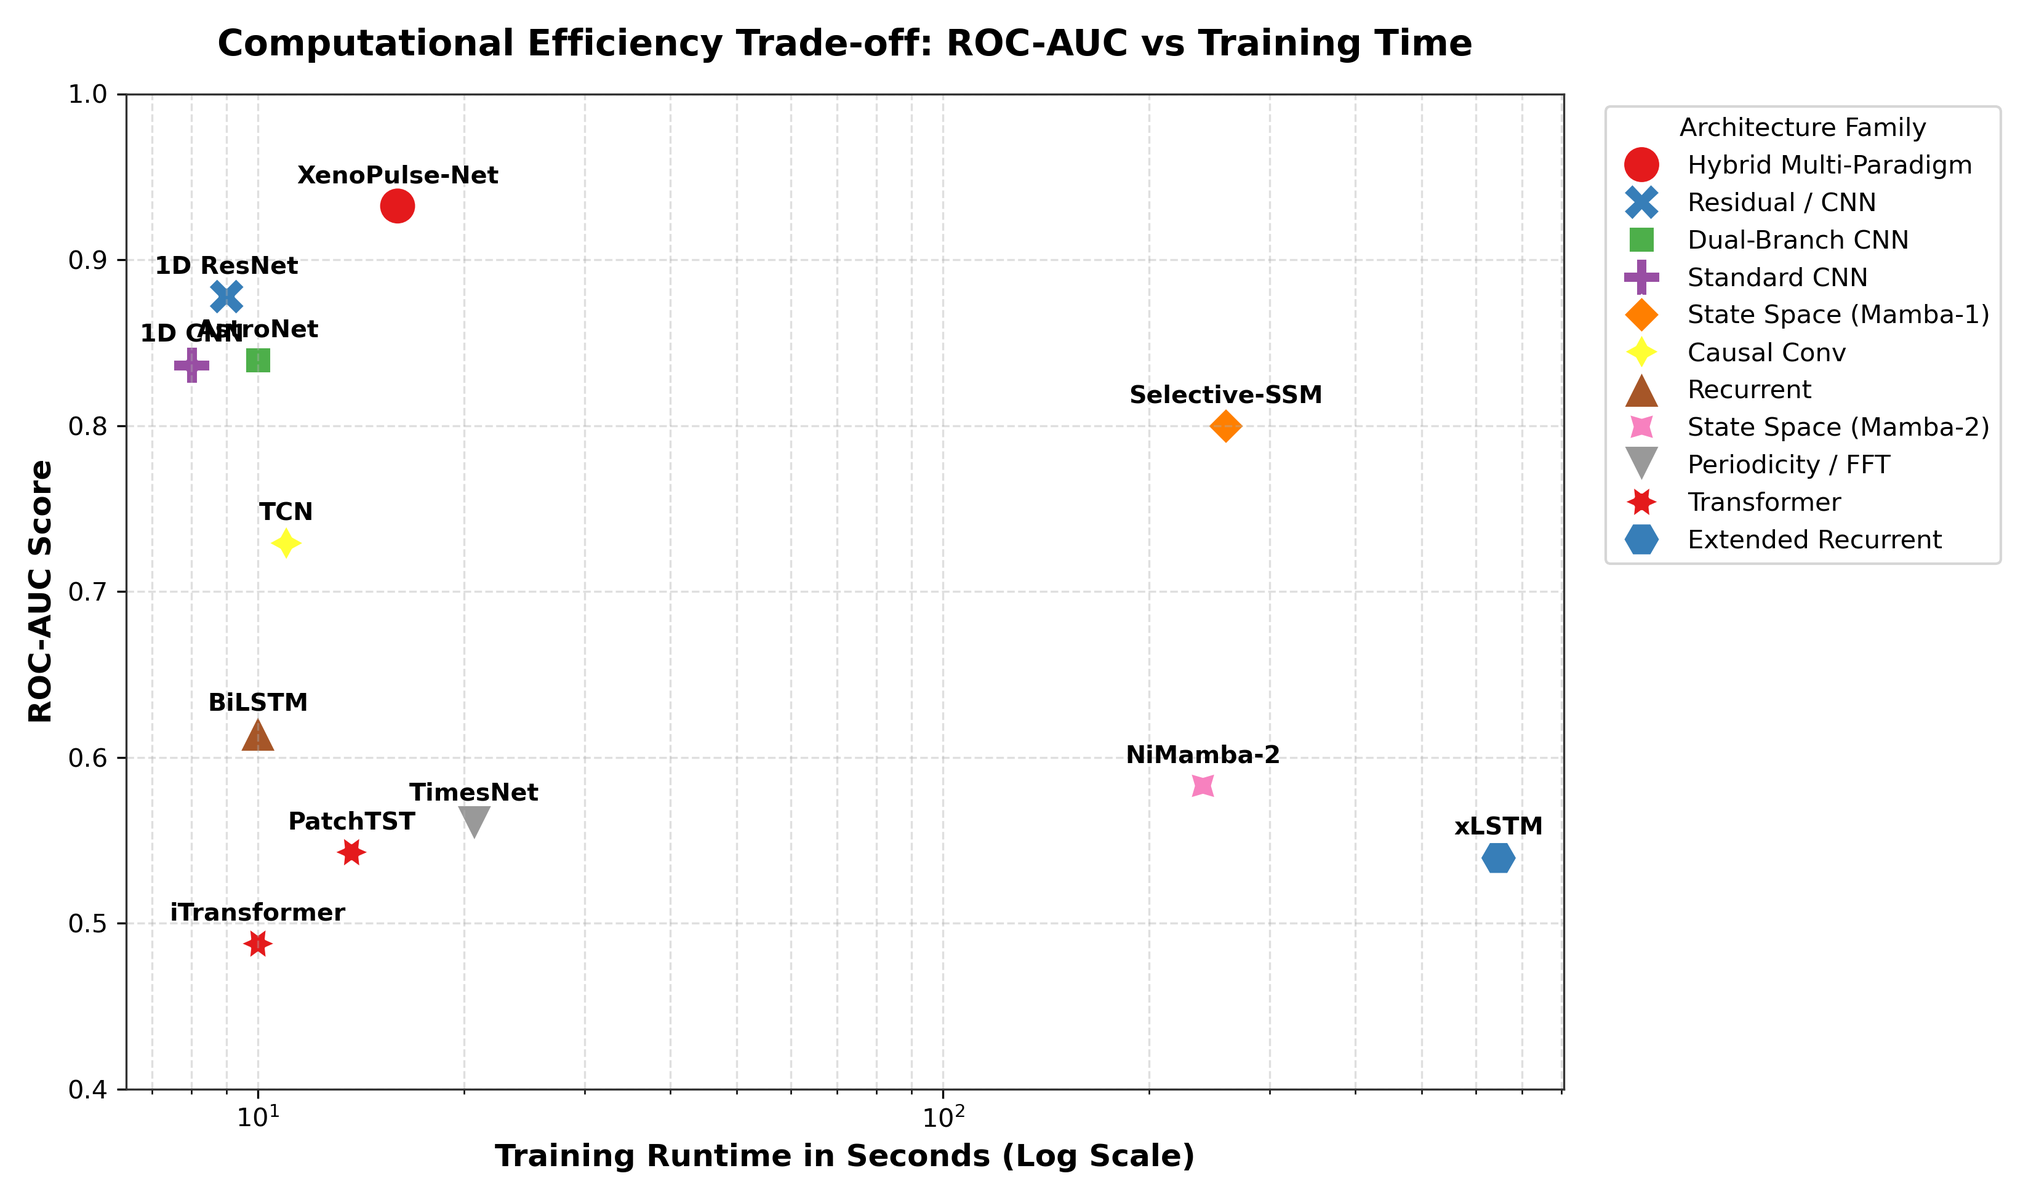
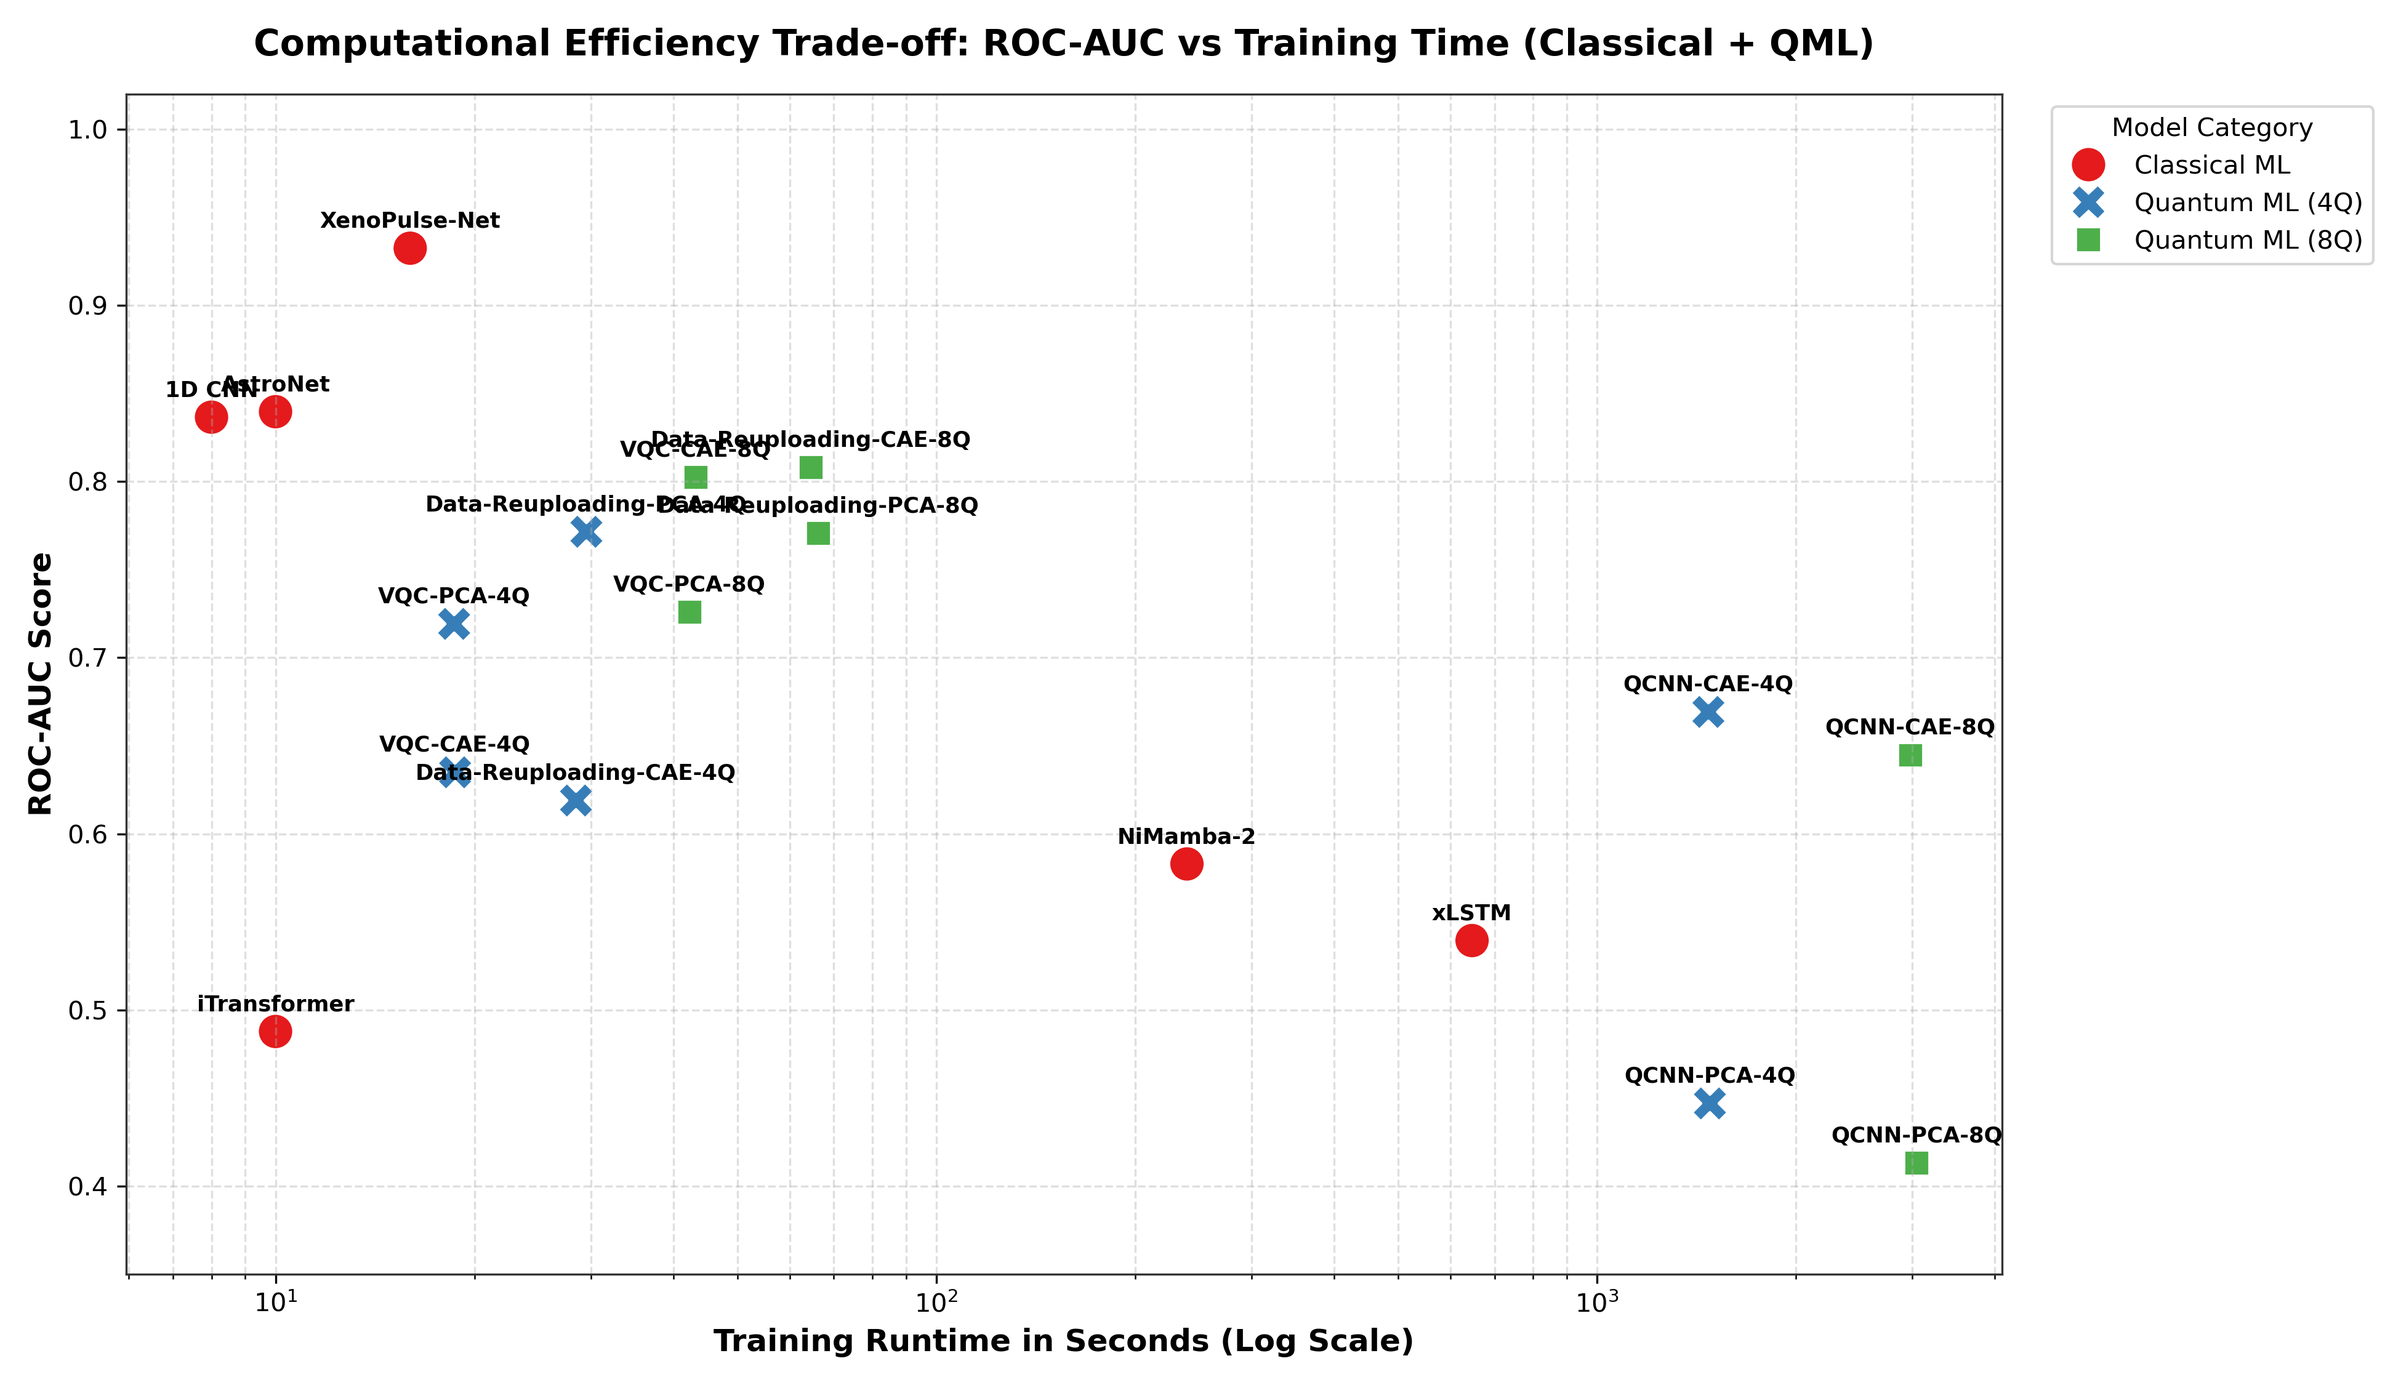
feat: update benchmark plots and master table for target classical and quantum models

diff --git a/src/visualization/plot_benchmarks.py b/src/visualization/plot_benchmarks.py
@@ -11,53 +11,140 @@ plt.rcParams['font.sans-serif'] = ['DejaVu Sans', 'Arial', 'Helvetica']
 plt.rcParams['axes.edgecolor'] = '#333333'
 plt.rcParams['axes.linewidth'] = 0.8
 
-CSV_PATH = "logs/classical_benchmark_results.csv"
+def find_column(df, candidates):
+    """Finds the first matching candidate column in df (case-insensitive & space-insensitive)."""
+    normalized_cols = {str(col).strip().lower(): col for col in df.columns}
+    for cand in candidates:
+        cand_norm = cand.strip().lower()
+        if cand_norm in normalized_cols:
+            return normalized_cols[cand_norm]
+    for cand in candidates:
+        for norm_col, orig_col in normalized_cols.items():
+            if cand.lower() in norm_col:
+                return orig_col
+    return None
 
-def load_and_clean_data(csv_path):
-    if not os.path.exists(csv_path):
-        raise FileNotFoundError(f"Results CSV not found at {csv_path}")
-    
-    df = pd.read_csv(csv_path)
-    
-    # Filter out corrupt entries where model_name was written as a float string
-    def is_valid_name(val):
-        try:
-            float(val)
-            return False
-        except ValueError:
-            return True
+def load_classical_data():
+    class_path = "logs/classical_benchmark_results.csv"
+    if not os.path.exists(class_path):
+        return pd.DataFrame()
 
-    df = df[df['model_name'].astype(str).apply(is_valid_name)].copy()
+    df = pd.read_csv(class_path, on_bad_lines='skip', engine='python')
+    df.columns = df.columns.str.strip()
 
-    numeric_cols = ['test_acc', 'precision', 'recall', 'f1_score', 'roc_auc', 'train_time_sec']
-    for col in numeric_cols:
-        df[col] = pd.to_numeric(df[col], errors='coerce')
+    model_col = find_column(df, ['model_name', 'model', 'architecture', 'name'])
+    acc_col = find_column(df, ['test_acc', 'accuracy', 'acc', 'test_accuracy'])
+    prec_col = find_column(df, ['precision', 'prec'])
+    rec_col = find_column(df, ['recall', 'rec'])
+    f1_col = find_column(df, ['f1_score', 'f1', 'f1-score'])
+    auc_col = find_column(df, ['roc_auc', 'auc', 'roc_auc_score'])
+    time_col = find_column(df, ['train_time_sec', 'training_time_sec', 'training_time', 'time_sec', 'time'])
 
-    df = df.groupby('model_name').last().reset_index()
-    df = df.sort_values('roc_auc', ascending=False).reset_index(drop=True)
-    
-    family_map = {
-        'XenoPulse-Net': 'Hybrid Multi-Paradigm',
-        '1D ResNet': 'Residual / CNN',
-        'AstroNet': 'Dual-Branch CNN',
-        '1D CNN': 'Standard CNN',
-        'Selective-SSM': 'State Space (Mamba-1)',
-        'TCN': 'Causal Conv',
-        'BiLSTM': 'Recurrent',
-        'NiMamba-2': 'State Space (Mamba-2)',
-        'TimesNet': 'Periodicity / FFT',
-        'PatchTST': 'Transformer',
-        'xLSTM': 'Extended Recurrent',
-        'iTransformer': 'Transformer'
+    c_df = pd.DataFrame()
+    c_df['model_name'] = df[model_col].astype(str).str.strip()
+    c_df['test_acc'] = pd.to_numeric(df[acc_col], errors='coerce') if acc_col else np.nan
+    c_df['precision'] = pd.to_numeric(df[prec_col], errors='coerce') if prec_col else np.nan
+    c_df['recall'] = pd.to_numeric(df[rec_col], errors='coerce') if rec_col else np.nan
+    c_df['f1_score'] = pd.to_numeric(df[f1_col], errors='coerce') if f1_col else np.nan
+    c_df['roc_auc'] = pd.to_numeric(df[auc_col], errors='coerce') if auc_col else np.nan
+    c_df['train_time_sec'] = pd.to_numeric(df[time_col], errors='coerce') if time_col else np.nan
+
+    # Target Classical Models filter
+    allowed_classical = {
+        'itransformer': 'iTransformer',
+        'astronet': 'AstroNet',
+        'xenopulse-net': 'XenoPulse-Net',
+        'xenopulse': 'XenoPulse-Net',
+        'xlstm': 'xLSTM',
+        'nimamba-2': 'NiMamba-2',
+        'nimamba2': 'NiMamba-2',
+        '1d cnn': '1D CNN',
+        '1d-cnn': '1D CNN',
+        '1d_cnn': '1D CNN'
     }
-    df['family'] = df['model_name'].map(family_map).fillna('Other')
-    return df
 
-def plot_master_metrics(df):
-    fig, ax = plt.subplots(figsize=(15, 7.5), dpi=300)
+    c_df['norm_key'] = c_df['model_name'].str.lower()
+    c_df = c_df[c_df['norm_key'].isin(allowed_classical.keys())].copy()
+    c_df['model_name'] = c_df['norm_key'].map(allowed_classical)
+    c_df['category'] = 'Classical ML'
+    c_df.drop(columns=['norm_key'], inplace=True)
+    c_df = c_df.groupby('model_name').last().reset_index()
+
+    return c_df
+
+def load_quantum_data():
+    q_files = [
+        "qnn_benchmark_results.csv",
+        "qcnn_benchmark_results.csv"
+    ]
+
+    q_dfs = []
+    for qf in q_files:
+        qp = os.path.join("logs", qf)
+        if os.path.exists(qp):
+            try:
+                df = pd.read_csv(qp, on_bad_lines='skip', engine='python')
+                df.columns = df.columns.str.strip()
+                q_dfs.append(df)
+            except Exception:
+                pass
+
+    if not q_dfs:
+        return pd.DataFrame()
+
+    raw_q = pd.concat(q_dfs, ignore_index=True)
+
+    arch_col = find_column(raw_q, ['architecture', 'model', 'model_name'])
+    qubit_col = find_column(raw_q, ['n_qubits', 'qubits', 'num_qubits'])
+    latent_col = find_column(raw_q, ['latent_type', 'latent', 'dim_red'])
+    acc_col = find_column(raw_q, ['accuracy', 'acc', 'test_acc'])
+    prec_col = find_column(raw_q, ['precision', 'prec'])
+    rec_col = find_column(raw_q, ['recall', 'rec'])
+    f1_col = find_column(raw_q, ['f1_score', 'f1', 'f1-score'])
+    auc_col = find_column(raw_q, ['roc_auc', 'auc'])
+    time_col = find_column(raw_q, ['training_time_sec', 'training_time', 'time_sec', 'time'])
+
+    q_df = pd.DataFrame()
+    q_df['arch_raw'] = raw_q[arch_col].astype(str).str.strip() if arch_col else ''
+    q_df['qubits'] = pd.to_numeric(raw_q[qubit_col], errors='coerce').fillna(0).astype(int) if qubit_col else 0
+    q_df['latent'] = raw_q[latent_col].astype(str).str.strip().str.upper() if latent_col else ''
+    q_df['test_acc'] = pd.to_numeric(raw_q[acc_col], errors='coerce') if acc_col else np.nan
+    q_df['precision'] = pd.to_numeric(raw_q[prec_col], errors='coerce') if prec_col else np.nan
+    q_df['recall'] = pd.to_numeric(raw_q[rec_col], errors='coerce') if rec_col else np.nan
+    q_df['f1_score'] = pd.to_numeric(raw_q[f1_col], errors='coerce') if f1_col else np.nan
+    q_df['roc_auc'] = pd.to_numeric(raw_q[auc_col], errors='coerce') if auc_col else np.nan
+    q_df['train_time_sec'] = pd.to_numeric(raw_q[time_col], errors='coerce') if time_col else np.nan
+
+    # Filter strictly for 4 and 8 Qubits, and PCA/CAE Latents
+    q_df = q_df[q_df['qubits'].isin([4, 8])].copy()
+    q_df = q_df[q_df['latent'].isin(['PCA', 'CAE'])].copy()
+
+    # Standardize Model Display Names
+    def construct_q_name(row):
+        arch = row['arch_raw'].lower()
+        q_str = f"{row['qubits']}Q"
+        latent_str = row['latent']
+
+        if 'data_reuploading' in arch or 'reuploading' in arch or 'data-reuploading' in arch:
+            return f"Data-Reuploading-{latent_str}-{q_str}"
+        elif 'vqc' in arch:
+            return f"VQC-{latent_str}-{q_str}"
+        elif 'qcnn' in arch:
+            return f"QCNN-{latent_str}-{q_str}"
+        else:
+            return f"QML-{latent_str}-{q_str}"
+
+    q_df['model_name'] = q_df.apply(construct_q_name, axis=1)
+    q_df['category'] = q_df['qubits'].apply(lambda q: f"Quantum ML ({q}Q)")
+    
+    q_df = q_df.groupby('model_name').last().reset_index()
+    return q_df[['model_name', 'test_acc', 'precision', 'recall', 'f1_score', 'roc_auc', 'train_time_sec', 'category']]
+
+def plot_benchmark_metrics(df):
+    fig, ax = plt.subplots(figsize=(18, 8), dpi=300)
 
     x = np.arange(len(df))
-    width = 0.26
+    width = 0.25
 
     acc_normalized = df['test_acc'] / 100.0 if df['test_acc'].max() > 1.0 else df['test_acc']
 
@@ -66,45 +153,48 @@ def plot_master_metrics(df):
     bars3 = ax.bar(x + width, acc_normalized, width, label='Accuracy', color='#7570b3', edgecolor='black', alpha=0.9)
 
     ax.set_ylabel('Score (0.0 – 1.0)', fontsize=12, fontweight='bold')
-    ax.set_title(f'Exoplanet Detection Benchmark: Performance Across {len(df)} Architectures', 
+    ax.set_title(f'Combined Classical & Quantum Exoplanet Detection Benchmark ({len(df)} Models)', 
                  fontsize=14, fontweight='bold', pad=15)
     ax.set_xticks(x)
-    ax.set_xticklabels(df['model_name'], rotation=35, ha='right', fontsize=11, fontweight='semibold')
+    ax.set_xticklabels(df['model_name'], rotation=45, ha='right', fontsize=10, fontweight='semibold')
     ax.set_ylim(0, 1.20)
     ax.legend(loc='upper right', frameon=True, facecolor='white', framealpha=0.9, fontsize=11)
     ax.grid(axis='y', linestyle='--', alpha=0.4)
 
     for bar in bars1:
         yval = bar.get_height()
-        ax.text(bar.get_x() + bar.get_width()/2.0, yval + 0.012, f"{yval:.3f}", 
-                ha='center', va='bottom', fontsize=7.5, fontweight='bold', rotation=90)
+        if not np.isnan(yval):
+            ax.text(bar.get_x() + bar.get_width()/2.0, yval + 0.012, f"{yval:.3f}", 
+                    ha='center', va='bottom', fontsize=7.0, fontweight='bold', rotation=90)
 
     for bar in bars2:
         yval = bar.get_height()
-        ax.text(bar.get_x() + bar.get_width()/2.0, yval + 0.012, f"{yval:.3f}", 
-                ha='center', va='bottom', fontsize=7.5, fontweight='bold', rotation=90)
+        if not np.isnan(yval):
+            ax.text(bar.get_x() + bar.get_width()/2.0, yval + 0.012, f"{yval:.3f}", 
+                    ha='center', va='bottom', fontsize=7.0, fontweight='bold', rotation=90)
 
     for bar in bars3:
         yval = bar.get_height()
-        ax.text(bar.get_x() + bar.get_width()/2.0, yval + 0.012, f"{yval * 100:.2f}%", 
-                ha='center', va='bottom', fontsize=7.5, fontweight='bold', rotation=90, color='#381d63')
+        if not np.isnan(yval):
+            ax.text(bar.get_x() + bar.get_width()/2.0, yval + 0.012, f"{yval * 100:.1f}%", 
+                    ha='center', va='bottom', fontsize=7.0, fontweight='bold', rotation=90, color='#381d63')
 
     plt.tight_layout()
-    output_path = "reports/figures/classical_benchmark_metrics.png"
+    output_path = "reports/figures/benchmark_metrics.png"
     plt.savefig(output_path, dpi=300)
     plt.close()
-    print(f"📊 Saved Clean Metric Summary Plot: {output_path}")
+    print(f"📊 Saved Combined Metric Summary Plot: {output_path}")
 
 def plot_auc_vs_runtime(df):
-    fig, ax = plt.subplots(figsize=(11, 6.5), dpi=300)
+    fig, ax = plt.subplots(figsize=(13, 7.5), dpi=300)
     
     sns.scatterplot(
         data=df,
         x='train_time_sec',
         y='roc_auc',
-        hue='family',
-        style='family',
-        s=220,
+        hue='category',
+        style='category',
+        s=200,
         ax=ax,
         palette='Set1'
     )
@@ -112,31 +202,45 @@ def plot_auc_vs_runtime(df):
     ax.set_xscale('log')
     ax.set_xlabel('Training Runtime in Seconds (Log Scale)', fontsize=12, fontweight='bold')
     ax.set_ylabel('ROC-AUC Score', fontsize=12, fontweight='bold')
-    ax.set_title('Computational Efficiency Trade-off: ROC-AUC vs Training Time', 
+    ax.set_title('Computational Efficiency Trade-off: ROC-AUC vs Training Time (Classical + QML)', 
                  fontsize=14, fontweight='bold', pad=15)
     ax.grid(True, which="both", ls="--", alpha=0.4)
     
     for _, row in df.iterrows():
-        ax.annotate(
-            row['model_name'],
-            (row['train_time_sec'], row['roc_auc']),
-            textcoords="offset points",
-            xytext=(0, 9),
-            ha='center',
-            fontsize=9.5,
-            fontweight='bold'
-        )
+        if not np.isnan(row['train_time_sec']) and not np.isnan(row['roc_auc']):
+            ax.annotate(
+                row['model_name'],
+                (row['train_time_sec'], row['roc_auc']),
+                textcoords="offset points",
+                xytext=(0, 8),
+                ha='center',
+                fontsize=8.5,
+                fontweight='bold'
+            )
 
-    ax.set_ylim(0.40, 1.00)
-    plt.legend(title='Architecture Family', bbox_to_anchor=(1.02, 1), loc='upper left', frameon=True)
+    ax.set_ylim(0.35, 1.02)
+    plt.legend(title='Model Category', bbox_to_anchor=(1.02, 1), loc='upper left', frameon=True)
     plt.tight_layout()
     
     output_path = "reports/figures/auc_vs_runtime.png"
     plt.savefig(output_path, dpi=300)
     plt.close()
-    print(f"⏱ Saved Clean Efficiency Trade-off Plot: {output_path}")
+    print(f"⏱ Saved Combined Efficiency Trade-off Plot: {output_path}")
 
 if __name__ == "__main__":
-    df = load_and_clean_data(CSV_PATH)
-    plot_master_metrics(df)
-    plot_auc_vs_runtime(df)
+    c_df = load_classical_data()
+    q_df = load_quantum_data()
+
+    combined_df = pd.concat([c_df, q_df], ignore_index=True)
+    
+    if combined_df.empty:
+        print("❌ No matching classical or quantum model data found.")
+    else:
+        # Sort classical models first, then quantum
+        combined_df['sort_order'] = combined_df['category'].apply(
+            lambda cat: 0 if 'Classical' in cat else (1 if '4Q' in cat else 2)
+        )
+        combined_df = combined_df.sort_values(['sort_order', 'roc_auc'], ascending=[True, False]).reset_index(drop=True)
+
+        plot_benchmark_metrics(combined_df)
+        plot_auc_vs_runtime(combined_df)

diff --git a/src/visualization/generate_master_table.py b/src/visualization/generate_master_table.py
@@ -25,29 +25,37 @@ def generate_reports():
     # ----------------------------------------------------
     class_path = os.path.join(logs_dir, "classical_benchmark_results.csv")
     if os.path.exists(class_path):
-        raw_c = pd.read_csv(class_path)
-        raw_c.columns = raw_c.columns.str.strip()
+        try:
+            raw_c = pd.read_csv(class_path, on_bad_lines='skip', engine='python')
+        except Exception as e:
+            print(f"⚠ Warning reading {class_path}: {e}")
+            raw_c = pd.DataFrame()
 
-        col_mappings = {
-            'Model Name': ['model_name', 'model', 'architecture', 'name'],
-            'Accuracy (%)': ['test_acc', 'accuracy', 'acc', 'test_accuracy'],
-            'Precision': ['precision', 'prec'],
-            'Recall': ['recall', 'rec'],
-            'F1-Score': ['f1_score', 'f1', 'f1-score'],
-            'ROC-AUC': ['roc_auc', 'auc', 'roc_auc_score'],
-            'Training Time (s)': ['training_time_sec', 'training_time', 'time_sec', 'time', 'execution_time_sec', 'runtime']
-        }
+        if not raw_c.empty:
+            raw_c.columns = raw_c.columns.str.strip()
 
-        c_df = pd.DataFrame()
-        for out_name, candidate_list in col_mappings.items():
-            matched_col = find_column(raw_c, candidate_list)
-            if matched_col:
-                c_df[out_name] = raw_c[matched_col]
+            col_mappings = {
+                'Model Name': ['model_name', 'model', 'architecture', 'name'],
+                'Accuracy (%)': ['test_acc', 'accuracy', 'acc', 'test_accuracy'],
+                'Precision': ['precision', 'prec'],
+                'Recall': ['recall', 'rec'],
+                'F1-Score': ['f1_score', 'f1', 'f1-score'],
+                'ROC-AUC': ['roc_auc', 'auc', 'roc_auc_score'],
+                'Training Time (s)': ['training_time_sec', 'training_time', 'time_sec', 'time', 'execution_time_sec', 'runtime']
+            }
 
-        # Standardize fractional accuracy to percentage if needed
-        if 'Accuracy (%)' in c_df.columns and pd.api.types.is_numeric_dtype(c_df['Accuracy (%)']):
-            if c_df['Accuracy (%)'].max() <= 1.0:
-                c_df['Accuracy (%)'] = c_df['Accuracy (%)'] * 100
+            c_df = pd.DataFrame()
+            for out_name, candidate_list in col_mappings.items():
+                matched_col = find_column(raw_c, candidate_list)
+                if matched_col:
+                    c_df[out_name] = raw_c[matched_col]
+
+            # Standardize fractional accuracy to percentage if needed
+            if 'Accuracy (%)' in c_df.columns and pd.api.types.is_numeric_dtype(c_df['Accuracy (%)']):
+                if c_df['Accuracy (%)'].max() <= 1.0:
+                    c_df['Accuracy (%)'] = c_df['Accuracy (%)'] * 100
+        else:
+            c_df = pd.DataFrame()
     else:
         c_df = pd.DataFrame()
 
@@ -65,9 +73,12 @@ def generate_reports():
     for qf in q_files:
         qp = os.path.join(logs_dir, qf)
         if os.path.exists(qp):
-            df = pd.read_csv(qp)
-            df.columns = df.columns.str.strip()
-            q_dfs.append(df)
+            try:
+                df = pd.read_csv(qp, on_bad_lines='skip', engine='python')
+                df.columns = df.columns.str.strip()
+                q_dfs.append(df)
+            except Exception as e:
+                print(f"⚠ Warning reading {qp}: {e}")
 
     if q_dfs:
         raw_q = pd.concat(q_dfs, ignore_index=True)
